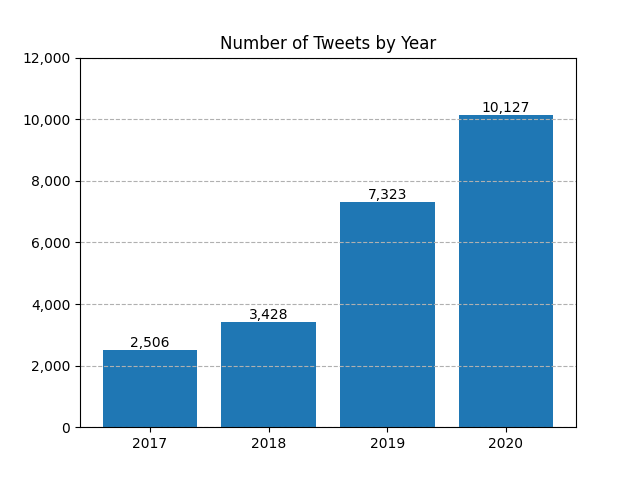
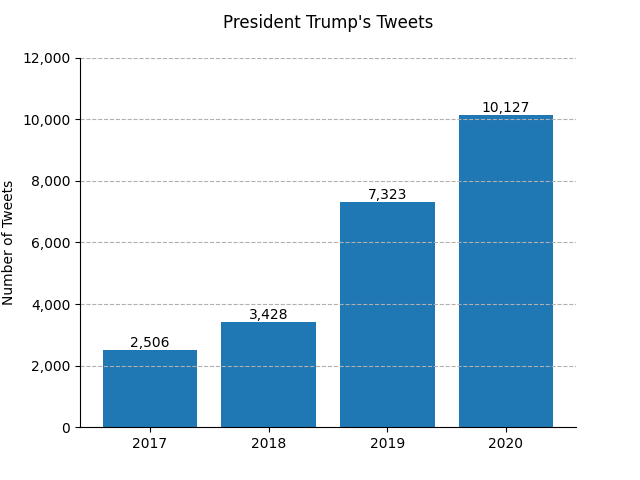
remove spines

Changed region(s): [[0.3438, 0.0312, 0.6875, 0.125], [0.0, 0.375, 0.0312, 0.6562]]

diff --git a/scripts/make_charts.py b/scripts/make_charts.py
@@ -15,11 +15,12 @@ yrs_array = df['created_yy'].unique()
 yrs = sorted(yrs_array) # [2017, 2018, ...]
 yrs = [str(yr) for yr in yrs]
 
+title = 'President Trump\'s Tweets\n'
+
 
 
 # 1: number of tweets by year
 
-title = 'Number of Tweets by Year'
 f_name = 'plt_01.png'
 
 fig = plt.figure() # creates current figure
@@ -58,6 +59,12 @@ ax.set_yticklabels(yticks)
 # show y-grid line
 ax.grid(axis='y', which='major', linestyle='--')
 
+# disable spines (lines across axis)
+ax.spines['top'].set_visible(False)
+ax.spines['right'].set_visible(False)
+
+ax.set_ylabel('Number of Tweets')
+
 fig.savefig(f_name)
 plt.close() # closes current figure (not required but keeps the memory clean)
 
@@ -67,7 +74,7 @@ print('saved plot {}'.format(f_name))
 
 # 2: number of tweets by re-tweet vs tweet
 
-title = 'Tweets vs. Retweets'
+#title = 'Tweets vs. Retweets'
 f_name = 'plt_02.png'
 
 fig = plt.figure() # creates current figure
@@ -108,6 +115,12 @@ ax.set_yticklabels(yticks)
 # show y-grid line
 ax.grid(axis='y', which='major', linestyle='--')
 
+# disable spines (lines across axis)
+ax.spines['top'].set_visible(False)
+ax.spines['right'].set_visible(False)
+
+ax.set_ylabel('Number of Tweets')
+
 fig.savefig(f_name)
 plt.close() # closes current figure (not required but keeps the memory clean)
 
@@ -117,7 +130,7 @@ print('saved plot {}'.format(f_name))
 
 # 3: number of tweets by month
 
-title = 'Tweets by Month'
+#title = 'Tweets by Month'
 f_name = 'plt_03.png'
 
 fig = plt.figure(figsize=(12, 5), tight_layout=True) # creates current figure
@@ -151,7 +164,7 @@ ax.grid(axis='y', which='major', linestyle='--')
 # add vertical lines to separate years
 xloc = [((n * 12) - 0.5) for n in range(1, len(yrs))]
 for n in xloc:
-    ax.axvline(x=n, ymin=0, ymax=1, linestyle='--', color=(1.0, 0.39, 0.28, 0.9))
+    ax.axvline(x=n, ymin=0, ymax=1, linestyle='--', color=(0.1, 0.2, 0.5, 0.5))
 
 # add years below x-axis,i.e. below months
 for i, y in enumerate(yrs):
@@ -162,11 +175,16 @@ xmin = -1
 xmax = len(ms)
 ax.set(xlim=(xmin, xmax)) 
 
+# disable spines (lines across axis)
+ax.spines['top'].set_visible(False)
+ax.spines['right'].set_visible(False)
+
+ax.set_ylabel('Number of Tweets')
+
 fig.savefig(f_name)
 plt.close() # closes current figure (not required but keeps the memory clean)
 
 print('saved plot {}'.format(f_name))
-
 
 
 
